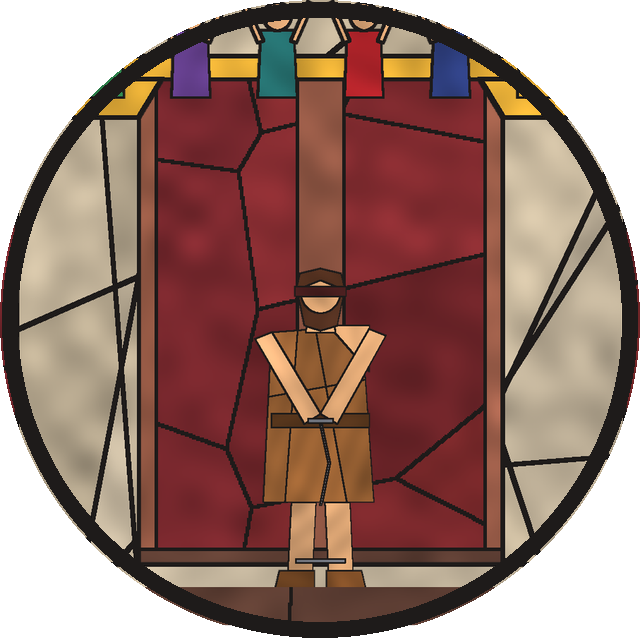
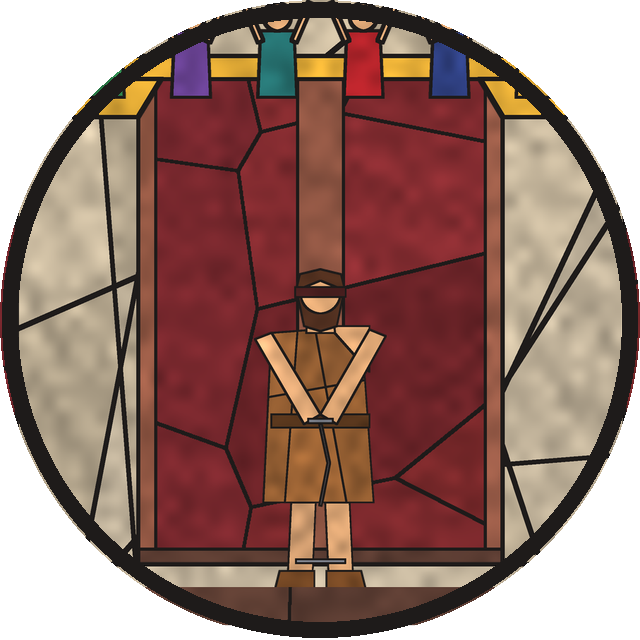
Film the glass: cuts and shots, painted faces, focus pulls
Borrowed from the Capital Case analysis, kept in stained glass:
- [cut:x:close|medium|two|all] reframes the camera instantly; the light
  snaps with it and spotlight size follows the zoom; scenes with cuts
  render their glass and figures at higher resolution
- grisaille faces (fx.draw_face): brows, eyes, nose, mouth in glass
  paint; 12 expressions via [face:x:expr], blinking, turned for figures
  lying down
- focus pulls: the window blurs behind counts, timelines and centred
  glass words
- Samson: 51 cuts and 44 expression changes

Claude-Session: https://claude.ai/code/session_01L9FavZ2sZ2Mq1766WXWH9C

diff --git a/lantern/director.py b/lantern/director.py
@@ -13,6 +13,7 @@ Narration cues (placed just before the word they land on):
 """
 import argparse
 import json
+import math
 import os
 import re
 import shutil
@@ -47,7 +48,7 @@ PACE = {}            # series pacing: {breath_gap, gap_warn} - how often somethi
 class Cast:
     """A prop placed on stage, with everything needed to aim lights and cameras at it."""
 
-    def __init__(self, key, spec, art_dir, scene_id, seed):
+    def __init__(self, key, spec, art_dir, scene_id, seed, hires=1.0):
         if "character" in spec:
             name = spec["character"]
             if name not in CHARACTERS:
@@ -62,7 +63,8 @@ class Cast:
         self.depth = spec.get("depth", 0.75 + 0.5 * max(0.0, self.at[1] - 0.6))
         params = {k: v.replace("{series}", SERIES["dir"]) if isinstance(v, str) else v
                   for k, v in spec.get("params", {}).items()}
-        img, self.meta = make_prop(spec["prop"], self.h * H * 1.3, seed=spec.get("seed", seed), **params)
+        self.hires = hires  # scenes with close-ups keep their figures sharp
+        img, self.meta = make_prop(spec["prop"], self.h * H * max(1.3, hires), seed=spec.get("seed", seed), **params)
         if spec.get("flip"):
             img = img.transpose(Image.Transpose.FLIP_LEFT_RIGHT)
             self.meta = {k: (1 - x, y) for k, (x, y) in self.meta.items()}
@@ -73,6 +75,18 @@ class Cast:
         self.anchor = spec.get("anchor", [0.5, 1.0])
         self.hidden_until = None
         self.layer = None
+
+    def face_spec(self):
+        """Where the painted face goes, for figures that have one."""
+        if "face" not in self.meta or self.spec.get("face") is False:
+            return None
+        (fx, fy), (rx, ry) = self.meta["face"], self.meta["face_r"]
+        r = math.hypot((rx - fx) * self.aspect, ry - fy)
+        params = self.spec.get("params", {})
+        return {"x": fx, "y": fy, "r": r, "expr": [[0.0, self.spec.get("expr", "calm")]],
+                "facing": self.spec.get("facing", 0.0), "rot": 90.0 if params.get("pose") == "sleep" else 0.0,
+                "blind": bool(params.get("blind")), "seed": sum(map(ord, self.key)) % 97,
+                "blink": params.get("pose") != "sleep"}
 
     def point(self, name="center"):
         """Frame position of a meta point (or the image centre)."""
@@ -311,13 +325,19 @@ class SceneBuild:
         os.makedirs(art_dir, exist_ok=True)
 
         # ---------------------------------------------------------------- set + cast
+        self.has_cuts = "[cut:" in (sc.get("narration") or "")
         set_spec = dict(sc.get("set", {"name": "void"}))
         set_name = set_spec.pop("name")
         if set_name == "great_window":  # the series' rose window, with every finished pane in it
             set_spec.setdefault("panes_dir", os.path.join(SERIES["dir"], "panes"))
-        self.set = SETS[set_name](W, H, np.random.default_rng(sc.get("seed", index + 1)), **set_spec)
+        if self.has_cuts and set_name != "great_window":  # close-ups need a sharper window
+            self.set = SETS[set_name](W * 2, H * 2, np.random.default_rng(sc.get("seed", index + 1)), **set_spec)
+            for l in self.set["layers"]:
+                l["hires"] = 2
+        else:
+            self.set = SETS[set_name](W, H, np.random.default_rng(sc.get("seed", index + 1)), **set_spec)
         self.places = self.set.get("places", {})
-        self.cast = {k: Cast(k, v, art_dir, self.id, seed=index * 100 + i)
+        self.cast = {k: Cast(k, v, art_dir, self.id, seed=index * 100 + i, hires=2.6 if self.has_cuts else 1.0)
                      for i, (k, v) in enumerate((sc.get("cast") or {}).items())}
         self.routes = {k: [self.route_point(p) for p in v] for k, v in (sc.get("routes") or {}).items()}
 
@@ -490,8 +510,16 @@ class SceneBuild:
         def base_zoom(t):
             return 1.0 + drift * t / dur
 
+        in_shot = False  # after a cut to a framed shot, spotlight moves don't reframe the camera
         for t, name, args, _ in self.cues:
-            if name not in ("spot", "push"):
+            if name == "cut":
+                prev = keyframes(keys, t)
+                keys = [k for k in keys if k[0] < t]
+                z, fx, fy = self.shot(args)
+                keys += [[max(0.0, t - 0.001), *prev], [t, z, fx, fy], [t + 3.2, z * 1.03, fx, fy]]
+                in_shot = z > 1.01
+                continue
+            if name not in ("spot", "push") or in_shot:
                 continue
             target = self.target_of(name, args)
             if target is None:
@@ -510,6 +538,31 @@ class SceneBuild:
         last = keys[-1]
         keys.append([dur, max(last[1], base_zoom(dur)) + 0.008, last[2], last[3]])
         return keys
+
+    def shot(self, args):
+        """Camera framing for [cut:x:close|medium], [cut:a:two:b] or [cut:all] -> (zoom, focus x, focus y)."""
+        if not args or args[0] in ("all", "wide"):
+            return 1.0, 0.5, 0.5
+        c = self.cast[args[0]]
+        kind = args[1] if len(args) > 1 else "medium"
+        d = c.depth
+
+        def focus(x, y):  # the focus that puts (x, y) at the centre of the frame for this depth
+            return 0.5 + (x - 0.5) / d, 0.5 + (y - 0.5) / d
+        if kind == "two" and len(args) > 2:
+            o = self.cast[args[2]]
+            (ax, ay), (bx, by) = c.point("center"), o.point("center")
+            span = abs(ax - bx) + (c.w + o.w) / 2
+            return min(2.0, max(1.0, 0.8 / max(span, 0.1))), *focus((ax + bx) / 2, (ay + by) / 2 - 0.04)
+        if kind == "close":  # head and shoulders
+            hx, hy = c.point("face") if "face" in c.meta else c.point("head") if "head" in c.meta else c.point()
+            return min(4.2, max(2.0, 0.55 / (c.h * 0.3))), *focus(hx, hy + c.h * 0.07)
+        # medium: from the waist up
+        return min(2.8, max(1.4, 0.62 / (c.h * 0.6))), *focus(c.at[0], c.at[1] - c.h * 0.68)
+
+    def zoom_at(self, t, depth, cam_keys):
+        z = clamp_camera(*keyframes(cam_keys, t), W, H)[0]
+        return 1 + (z - 1) * depth
 
     def to_screen(self, x, y, depth, t, cam_keys):
         z, fx, fy = clamp_camera(*keyframes(cam_keys, t), W, H)
@@ -582,6 +635,11 @@ class SceneBuild:
                     fx.append(e)
             if fx:
                 spec["fx"] = fx
+            if c.hires > 1:
+                spec["hires"] = c.hires
+            face = c.face_spec()
+            if face:
+                spec["face"] = face
             if c.spec.get("hidden"):  # waits off the glass until [appear:x] or [swap:other:x]
                 spec["opacity"] = [[0.0, 0.0]]
             for k in ("spin", "hires"):
@@ -618,10 +676,29 @@ class SceneBuild:
                     continue
                 mod = args[1] if len(args) > 1 else ""
                 r *= {"wide": 1.6, "tight": 0.62}.get(mod, 1.0)
+                r = min(0.95, r * self.zoom_at(t + 0.4, d, cam))  # a close shot needs a wider pool
                 sx, sy = self.to_screen(tx, ty, d, t + 0.4, cam)
                 prev = keyframes(spot_keys, t - SPOT_TRAVEL * 0.6)
                 spot_keys.append([max(spot_keys[-1][0] + 0.01, t - SPOT_TRAVEL * 0.6), *prev[:4]])
                 spot_keys.append([t + SPOT_TRAVEL * 0.4, sx, sy, r, 1.0])
+                events.append(t)
+            elif name == "cut":  # the light snaps with the camera
+                prev = keyframes(spot_keys, t - 0.002)
+                if not args or args[0] in ("all", "wide"):
+                    new_key = [t, 0.5, 0.5, 0.62, 1.0]
+                else:
+                    c = self.cast[args[0]]
+                    tx, ty = c.point("face") if (len(args) > 1 and args[1] == "close" and "face" in c.meta) \
+                        else c.point("center")
+                    sx, sy = self.to_screen(tx, ty, c.depth, t + 0.01, cam)
+                    new_key = [t, sx, sy, min(0.95, c.radius() * self.zoom_at(t + 0.01, c.depth, cam)), 1.0]
+                spot_keys.append([max(spot_keys[-1][0] + 0.001, t - 0.002), *prev[:4]])
+                spot_keys.append(new_key)
+                events.append(t)
+            elif name == "face":
+                c = self.cast[args[0]]
+                if c.layer.get("face"):
+                    c.layer["face"]["expr"].append([t, args[1] if len(args) > 1 else "calm"])
                 events.append(t)
             elif name == "flood":  # light pours through the whole window from behind
                 prev = keyframes(spot_keys, t - 0.6)
@@ -764,6 +841,11 @@ class SceneBuild:
             scene["labels"] = labels
         if self.texts:
             scene["texts"] = self.compile_texts(cam, dur)
+        focus = [[g["start"], g["until"]] for g in scene_fx["graphics"] if g["kind"] in ("tally", "timeline")]
+        focus += [[tx["words"][0][1] - 0.1, tx["until"]] for tx in scene.get("texts", [])
+                  if tx["kind"] == "glass" and tx["pos"][1] > 0.4 and tx["pos"][1] < 0.6]
+        if focus:
+            scene["focus"] = focus
         for k in ("quakes", "flashes", "graphics"):
             if scene_fx[k]:
                 scene[k] = scene_fx[k]

diff --git a/lantern/fx.py b/lantern/fx.py
@@ -135,3 +135,73 @@ def draw_smoke(layer, x, y, size, t, seed=0.0, puffs=7, life=5.0):
         d.ellipse([cx - r, cy - r, cx + r, cy + r], fill=(g, g - 4, g - 8, a))
     patch = patch.filter(ImageFilter.GaussianBlur(size * 0.35))
     layer.alpha_composite(patch, (int(x - bx), int(y - by)))
+
+
+# ---------------------------------------------------------------------------- painted faces
+# Medieval glass painters drew faces onto the glass in dark brown "grisaille" paint: brows,
+# eyes, the line of the nose and the mouth. These are drawn the same way, every frame, so a
+# face can blink and change expression.
+GRISAILLE = (52, 32, 24, 235)
+
+# brow tilt (inner end up +), brow lift, eye shape, mouth curve (+ smile), mouth open
+EXPRESSIONS = {
+    "calm": (0.0, 0.0, "open", 0.0, 0.0),
+    "sad": (0.5, 0.05, "open", -0.6, 0.0),
+    "angry": (-0.7, -0.05, "narrow", -0.3, 0.0),
+    "afraid": (0.6, 0.15, "wide", -0.2, 0.5),
+    "surprised": (0.1, 0.22, "wide", 0.0, 0.7),
+    "determined": (-0.35, -0.03, "narrow", -0.1, 0.0),
+    "smile": (0.1, 0.05, "open", 0.7, 0.0),
+    "laugh": (0.1, 0.1, "closed_up", 0.8, 0.6),
+    "shout": (-0.5, 0.05, "open", 0.0, 0.9),
+    "pray": (0.25, 0.0, "closed", 0.0, 0.0),
+    "asleep": (0.0, -0.02, "closed", 0.1, 0.0),
+    "pain": (0.7, 0.05, "closed", -0.5, 0.3),
+}
+
+
+def draw_face(img, cx, cy, r, expr="calm", blink=False, facing=0.0, rot=0.0, blind=False):
+    """Paint a face on a round glass head centred at (cx, cy) with radius r (card pixels).
+    facing -1..1 turns it left/right; rot (degrees) for figures lying down."""
+    b_tilt, b_lift, eyes, m_curve, m_open = EXPRESSIONS.get(expr, EXPRESSIONS["calm"])
+    d = ImageDraw.Draw(img)
+    w = max(1.0, r * 0.1)
+    a = math.radians(rot)
+    ca, sa = math.cos(a), math.sin(a)
+    fx = facing * r * 0.16
+
+    def P(x, y):  # face space (r units, y down) -> card pixels, turned and rotated
+        x, y = x * r + fx, y * r
+        return (cx + x * ca + y * sa, cy - x * sa + y * ca)
+
+    def line(pts, width=w):
+        d.line([P(*p) for p in pts], fill=GRISAILLE, width=max(1, int(round(width))), joint="curve")
+
+    for side in (-1, 1):
+        ex = side * 0.36
+        # brows: the inner end rises (sad, afraid) or falls (angry)
+        inner, outer = (ex - side * 0.16, -0.36 - b_lift - b_tilt * 0.12), (ex + side * 0.16, -0.34 - b_lift)
+        line([inner, outer], w * 1.1)
+        if blind:
+            continue
+        if blink or eyes == "closed":
+            line([(ex - 0.12, -0.16), (ex, -0.12), (ex + 0.12, -0.16)])
+        elif eyes == "closed_up":
+            line([(ex - 0.12, -0.13), (ex, -0.19), (ex + 0.12, -0.13)])
+        else:
+            ry = {"open": 0.085, "narrow": 0.05, "wide": 0.12}[eyes]
+            pts = [P(ex + math.cos(k / 10 * 2 * math.pi) * 0.14, -0.16 + math.sin(k / 10 * 2 * math.pi) * ry)
+                   for k in range(10)]
+            d.polygon(pts, outline=GRISAILLE, fill=(240, 232, 214, 255))
+            px, py = P(ex + facing * 0.04, -0.16)
+            pr = r * min(0.06, ry * 0.75)
+            d.ellipse([px - pr, py - pr, px + pr, py + pr], fill=GRISAILLE)
+    line([(0.02, -0.1), (0.05, 0.12), (-0.04, 0.16)], w * 0.9)  # nose
+    if m_open > 0.05:  # an open mouth: a dark oval
+        mw, mh = 0.17 + 0.04 * abs(m_curve), 0.05 + 0.12 * m_open
+        pts = [P(math.cos(k / 12 * 2 * math.pi) * mw, 0.42 + m_curve * -0.05 + math.sin(k / 12 * 2 * math.pi) * mh)
+               for k in range(12)]
+        d.polygon(pts, fill=(70, 30, 26, 240), outline=GRISAILLE)
+    else:
+        # y grows downward: a smile has its corners above its middle, a frown below
+        line([(-0.24, 0.4 - m_curve * 0.09), (0.0, 0.4 + m_curve * 0.09), (0.24, 0.4 - m_curve * 0.09)], w * 1.1)

diff --git a/lantern/art/glass_stories.py b/lantern/art/glass_stories.py
@@ -86,7 +86,9 @@ def glass_samson(h, rng, pose="stand", hair="long", blind=False, bound=None):
            HAIR)  # hairline
     if blind:  # his eyes were put out (16:21): a dark band across them
         g.poly([P(-0.062, 0.08), P(0.062, 0.08), P(0.062, 0.11), P(-0.062, 0.11)], (70, 30, 30))
-    meta = {"center": P(0, 0.42), "head": P(0, 0.1), "hair": P(0, 0.3), "eyes": P(0, 0.095)}
+    face = P(0, 0.1)
+    meta = {"center": P(0, 0.42), "head": P(0, 0.1), "hair": P(0, 0.3), "eyes": P(0, 0.095), "face": face,
+            "face_r": (face[0] + 0.06 * kk, face[1])}
     if pose == "push":
         meta.update(left_hand=P(-0.4, 0.27), right_hand=P(0.4, 0.26))
     img, m = g.finish(meta=meta)
@@ -114,7 +116,8 @@ def glass_woman(h, rng, robe="violet", mantle="teal", jewels=False, veil="white"
         for i in range(5):
             g.circle(*P(-0.04 + i * 0.02, 0.2), 0.009, GOLD)
         g.circle(*P(-0.052, 0.13), 0.01, GOLD)
-    return g.finish(meta={"center": P(0, 0.42), "head": P(0, 0.11)})
+    face = P(0, 0.11)
+    return g.finish(meta={"center": P(0, 0.42), "head": face, "face": face, "face_r": (face[0] + 0.05, face[1])})
 
 
 @prop("glass_philistine")
@@ -129,7 +132,8 @@ def glass_philistine(h, rng, weapon="sword", face="left"):
     g.poly([P(-0.12, 0.24), P(0.12, 0.24), P(0.11, 0.42), P(-0.11, 0.42)], BRONZE, cuts=2)  # breastplate
     g.poly([P(-0.12, 0.22), P(-0.16, 0.24), P(-0.17, 0.5), P(-0.13, 0.5)], SKIN)
     g.poly([P(0.12, 0.22), P(0.16, 0.21), P(0.27, 0.12), P(0.25, 0.08)], SKIN)  # weapon arm forward-up
-    meta = {"center": P(0, 0.45), "head": P(0, 0.11)}
+    face = P(0, 0.11)
+    meta = {"center": P(0, 0.45), "head": face, "face": face, "face_r": (face[0] + 0.062 * 0.82, face[1])}
     if weapon == "sword":
         g.poly([P(0.25, 0.1), P(0.28, 0.08), P(0.42, -0.12), P(0.4, -0.13)], (196, 200, 210))
         g.band([P(0.22, 0.12), P(0.3, 0.06)], 0.014, GOLD)
@@ -181,7 +185,9 @@ def glass_boy(h, rng):
     g.poly([P(0.12, 0.22), P(0.16, 0.24), P(0.17, 0.5), P(0.13, 0.5)], SKIN)
     g.circle(*P(0, 0.08), 0.065, HAIR)
     g.circle(*P(0, 0.12), 0.05, SKIN)
-    return g.finish(meta={"center": P(0, 0.45), "hand": P(-0.22, 0.44)})
+    face = P(0, 0.12)
+    return g.finish(meta={"center": P(0, 0.45), "hand": P(-0.22, 0.44), "head": face, "face": face,
+                          "face_r": (face[0] + 0.05, face[1])})
 
 
 @prop("glass_altar")
@@ -236,7 +242,8 @@ def glass_angel(h, rng):
     g.poly([P(0.12, 0.22), P(0.16, 0.21), P(0.24, 0.02), P(0.2, 0.0)], WHITE)  # hand raised
     g.circle(*P(0.22, 0.0), 0.022, SKIN)
     g.poly([P(-0.06, 0.1), P(-0.05, 0.04), P(0.0, 0.02), P(0.05, 0.04), P(0.06, 0.1)], (214, 170, 80))
-    return g.finish(meta={"center": P(0, 0.4), "head": P(0, 0.11)})
+    face = P(0, 0.11)
+    return g.finish(meta={"center": P(0, 0.4), "head": face, "face": face, "face_r": (face[0] + 0.062, face[1])})
 
 
 # ============================================================================ animals and things

diff --git a/lantern/render.py b/lantern/render.py
@@ -18,7 +18,7 @@ from PIL import Image, ImageDraw, ImageFilter
 
 from . import audio, graphics
 from .anim import clamp, ease_in, ease_in_out, ease_out, keyframes, point_along, smooth_noise
-from .fx import draw_flame, draw_ink, draw_smoke, duotone, paper_card
+from .fx import draw_face, draw_flame, draw_ink, draw_smoke, duotone, paper_card
 from .stage import Dust, Snow, Stage
 
 DEFAULT_STYLE = {
@@ -240,8 +240,20 @@ class Layer:
     def render(self, t, dur, cam, lights):
         img = self.card
         fx = self.spec.get("fx", [])
-        if fx:
+        face = self.spec.get("face")
+        if fx or face:
             img = img.copy()
+        if face:  # a painted face: expression changes on cue, and it blinks
+            expr = face["expr"][0][1]
+            for kt, name in face["expr"]:
+                if kt <= t:
+                    expr = name
+            seed = face.get("seed", 0)
+            period = 3.6 + (seed % 7) * 0.31
+            blink = face.get("blink", True) and ((t + seed * 1.37) % period) < 0.13
+            cw_, ch_ = self.iw * self.hr, self.ih * self.hr
+            draw_face(img, self.pad + face["x"] * cw_, self.pad + face["y"] * ch_, face["r"] * ch_, expr, blink,
+                      face.get("facing", 0.0), face.get("rot", 0.0), face.get("blind", False))
         M = self.matrix(t, dur, cam)
         k = self.W / 1280
         iw, ih = self.iw * self.hr, self.ih * self.hr  # card pixels (hi-res layers are drawn larger)
@@ -494,6 +506,17 @@ class Project:
             self.snow.render(rgb, light, t + si * 13.0)
 
         img = Image.fromarray(rgb.clip(0, 255).astype(np.uint8), "RGB").convert("RGBA")
+
+        # --- focus pull: the window softens behind a graphic or a key line, so it owns the screen
+        fk = 0.0
+        for a_, b_ in sc.get("focus", []):
+            fk = max(fk, clamp((t - a_) / 0.45) * (1 - clamp((t - b_) / 0.45)))
+        if fk > 0.01:
+            blurred = img.filter(ImageFilter.GaussianBlur(fk * 9 * W / 1920))
+            img = Image.blend(img, blurred, min(1.0, fk * 1.2))
+            dim = np.asarray(img).astype(np.float32)
+            dim[..., :3] *= 1 - 0.25 * fk
+            img = Image.fromarray(dim.astype(np.uint8), "RGBA")
 
         # --- title ticket rises from behind the stage lip
         if ticket is not None:

diff --git a/lantern/art/glass.py b/lantern/art/glass.py
@@ -206,7 +206,9 @@ def glass_david(h, rng, pose="sling"):
         g.band([P(0.17, 0.98), P(0.2, 0.05)], 0.016, WOOD)
         g.band([P(0.2, 0.05), P(0.24, -0.01), P(0.27, 0.04)], 0.016, WOOD)
         hand = P(0.17, 0.45)
-    return g.finish(meta={"center": P(0, 0.45), "head": f["head"], "hand": hand})
+    face = P(0, 0.12)
+    return g.finish(meta={"center": P(0, 0.45), "head": f["head"], "hand": hand, "face": face,
+                          "face_r": (face[0] + 0.05, face[1])})
 
 
 @prop("glass_goliath")
@@ -228,7 +230,9 @@ def glass_goliath(h, rng):
     g.poly([P(0.235, -0.06), P(0.26, -0.06), P(0.25, -0.16)], IRON)
     g.circle(*P(-0.2, 0.45), 0.13, BRONZE, cuts=3)                                     # shield
     g.circle(*P(-0.2, 0.45), 0.035, GOLD)
-    return g.finish(meta={"center": P(0, 0.4), "head": f["head"], "forehead": P(0, 0.07)})
+    hx, hy = f["head"]
+    return g.finish(meta={"center": P(0, 0.4), "head": f["head"], "forehead": P(0, 0.07), "face": (hx, hy + 0.012),
+                          "face_r": (hx + 0.05, hy + 0.012)})
 
 
 @prop("glass_army")

diff --git a/docs/DIRECTION.md b/docs/DIRECTION.md
@@ -32,6 +32,14 @@ Each act opens with a curtain and a ticket title (`ACT II | Twelfth Night`), whi
 - **Maps for movement, stages for people.** Use a map scene whenever the story moves across country, and draw the route in ink as the narrator describes it.
 - **Vary the sets.** Never put two consecutive scenes on the same set and time of day.
 
+## Camera and faces
+
+- **Film it, don't stage it.** Cut within a scene, roughly every 3 to 6 seconds in dialogue and action. Start wide to show where we are, go medium for an action, and go close for a feeling.
+- **Dialogue is shot, reverse shot.** Cut to whoever is speaking (`[cut:delilah:close]` then `[cut:samson:close]`), and use a two-shot (`[cut:samson:two:delilah]`) when the line is about both of them.
+- **Return wide for the big physical moments**: the burst ropes, the collapse, the thousand fallen.
+- **Faces carry the emotion.** Change the expression on the beat it changes in the story (`[face:samson:afraid]`), and especially in close-ups.
+- **Focus pulls are automatic**: the window softens behind a count, a timeline or a centred line of glass words.
+
 ## On-screen words
 
 - **Use them sparingly**: about one a minute, never more than one per scene. Words on screen compete with the picture and the voice, so save them for the line the viewer should remember.

diff --git a/README.md b/README.md
@@ -96,6 +96,8 @@ fraction of the frame.
 | `[pause:0.8]` | extra silence after this sentence |
 | `[say:a thousand men]` `[say:He did not know\|ruby\|center]` | words in leaded glass, each appearing as it is spoken (options: gold/ruby/sky/white, top/center/bottom) |
 | `[scroll:delilah\|The Philistines are upon you!]` | a medieval speech scroll unrolls by a character, writing their words in time with the voice |
+| `[cut:x:close]` `[cut:x:medium]` `[cut:a:two:b]` `[cut:all]` | film it: cut to a close-up, a waist-up shot, a two-shot, or back to the wide window (scenes with cuts are drawn sharper automatically) |
+| `[face:x:sad]` | change a painted face: calm, sad, angry, afraid, surprised, determined, smile, laugh, shout, pray, asleep, pain (faces also blink) |
 | `[tally:1000]` | a number you can see: that many glass tiles light up in a sweep |
 | `[cascade:a,b,c]` | cast members appear one after another (piles multiplying) |
 | `[timeline:4]` | a lead bar whose nodes light gold one by one ("four times the Spirit came") |
